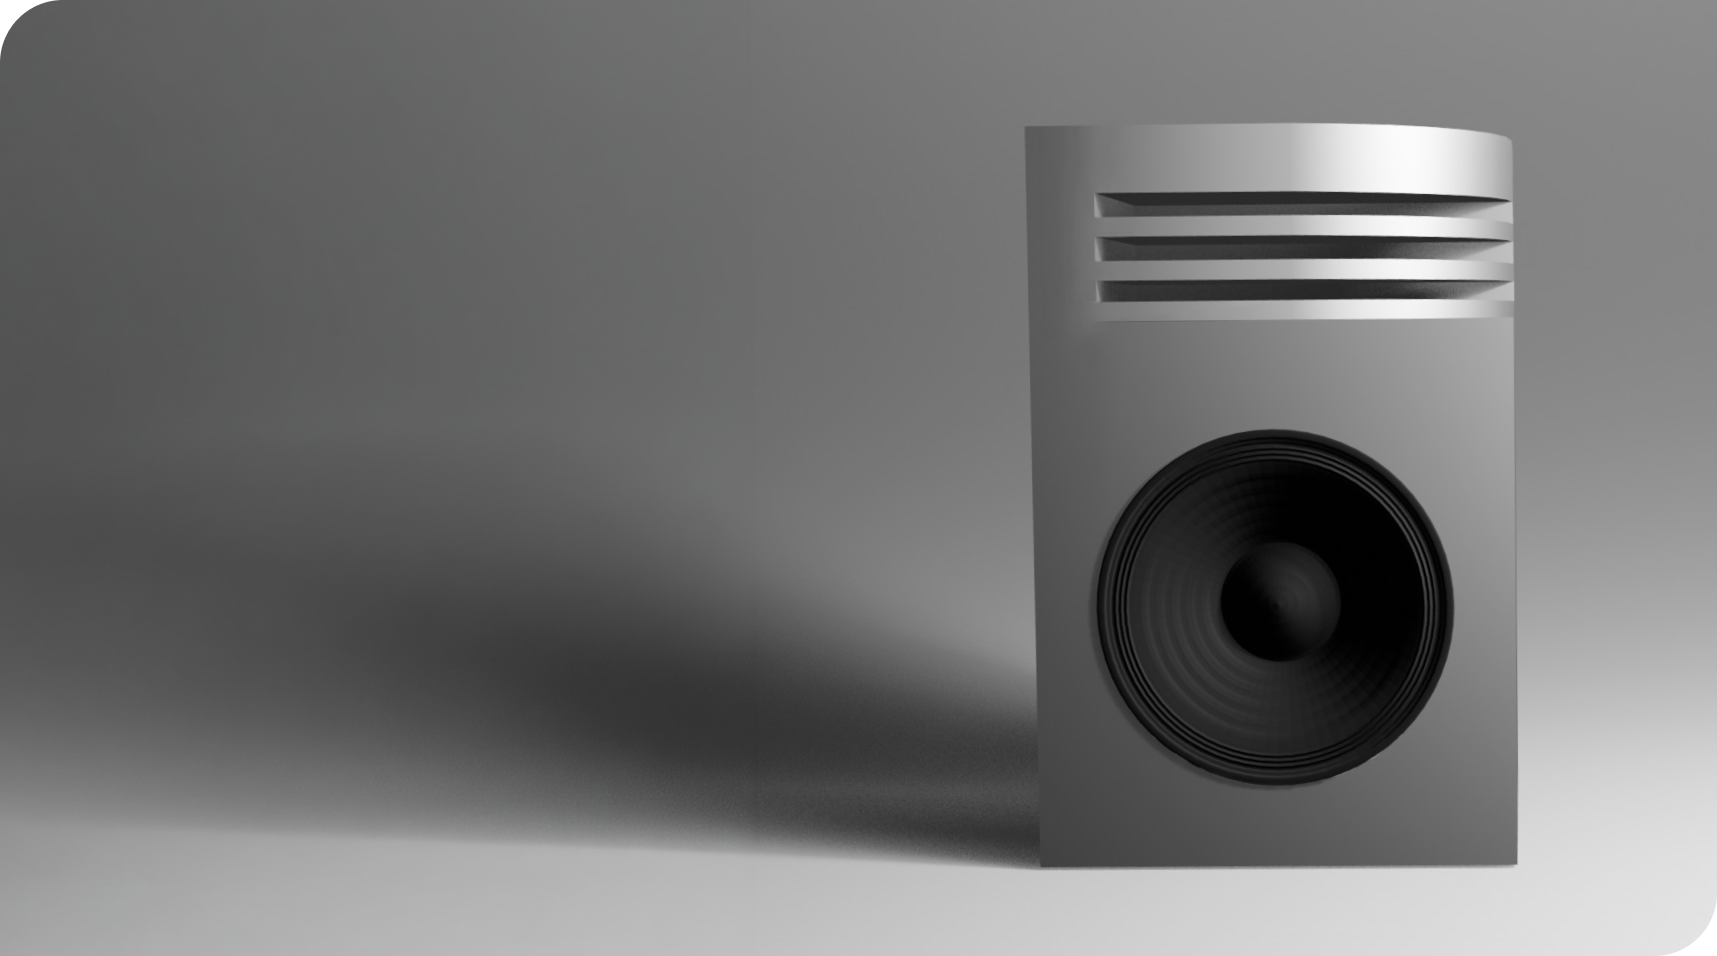
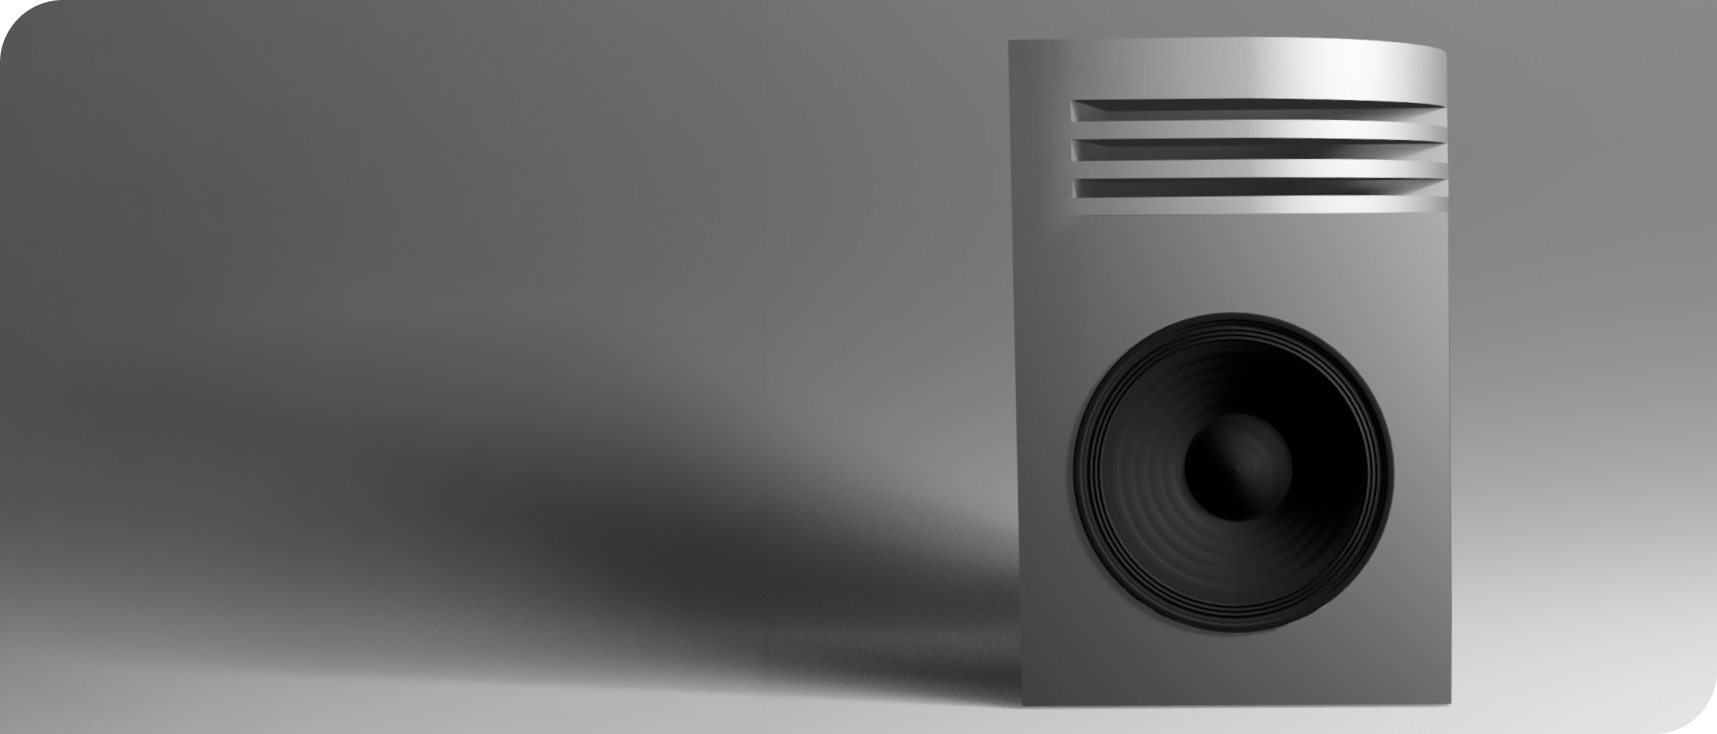
landing page edits

Changed region(s): [[0.0617, 0.03, 0.8952, 0.9891], [0.9878, 0.9292, 1.0, 0.9891], [0.0, 0.0, 0.0309, 0.03]]

diff --git a/index.html b/index.html
@@ -7,11 +7,12 @@
     <link rel="stylesheet" href="styles.css">
 </head>
 <body>
+
     <div class="nav-bar">
         <div class="left-side">
             <img 
-            class="ohbe-logo-nav"
-            src="images/OHBE-logo.png">
+                class="ohbe-logo-nav"
+                src="images/OHBE-logo.png">
         </div>
         <div class="right-side">
             <a href="about.html">About</a>
@@ -19,23 +20,58 @@
             <a href="products.html">Products</a>
         </div>
     </div>
+
     <div class="hero-section">
         <h1 class="hero-text">Sound inspired by design.</h1>
         <img src="images/OHBE-hero-image.png" alt="ohbe speaker image">
     </div>
+
+    <h1>Our Products</h1>
+
     <div class="product-section">
-        <h1>Our Products</h1>
-        <img src="images/OHBE-product-image-01.png">
-        <h3>Lamp concept 02</h3>
-        <h3>$100</h3>
-        <button type="submit">Add to cart</button>
+        <div class="product-item">
+                <img
+                class="product-image-01" 
+                src="images/OHBE-product-image-01.png">
+            <h3>Lamp concept 02</h3>
+            <h3>$100</h3>
+            <button type="submit">Add to cart</button>
+        </div>
+         <div class="product-item">
+                <img
+                class="product-image-01" 
+                src="images/OHBE-product-image-01.png">
+            <h3>Lamp concept 02</h3>
+            <h3>$100</h3>
+            <button type="submit">Add to cart</button>
+        </div>
+         <div class="product-item">
+                <img
+                class="product-image-01" 
+                src="images/OHBE-product-image-01.png">
+            <h3>Lamp concept 02</h3>
+            <h3>$100</h3>
+            <button type="submit">Add to cart</button>
+        </div>
+        <div class="product-item">
+                <img
+                class="product-image-01" 
+                src="images/OHBE-product-image-01.png">
+            <h3>Lamp concept 02</h3>
+            <h3>$100</h3>
+            <button type="submit">Add to cart</button>
+        </div>
     </div>
+
     <div class="live-ohbe-section">
-        <img src="images/OHBE-hero-image.png">
+        <img
+            class="live-ohbe-image" 
+            src="images/OHBE-hero-image.png">
         <h1>Live Ohbe</h1>
         <h2>Decorate your space with unique design. We strive to reinvent household staples with a modern twist to create a curated sound/visual experience. </h2>
-        <a href="products.html">Products</a>
+        <a href="products.html" class="product-button">Products</a>
     </div>
+
     <div class="contact-section">
         <div>
             <img src="images/OHBE-vertical-image.png">
@@ -47,8 +83,12 @@
             <h2>480 322 5134</h2>
         </div>
     </div>
+
     <div class="footer-section">
-        <img src="images/OHBE Logo-Horizontal-White.png">
+        <img
+            class="ohbe-logo-footer" 
+            src="images/OHBE Logo-Horizontal-White.png">
     </div>
+
 </body>
 </html>

diff --git a/styles.css b/styles.css
@@ -10,15 +10,19 @@
     display: block;
     width: 100%;
     height:auto;
+    margin-top: 40px;
+    margin-bottom: 40px;
 }
 
 .hero-text {
     font-family: 'Poppins', sans-serif;
-    font-size: 85px;
+    font-weight: 300;
+    font-size: 80px;
+    line-height: 1.25;
     position:absolute;
     top: 50%;
     left: 50%;
-    transform: translate(-90%, -50%);
+    transform: translate(-90%, -65%);
 }
 
 button {
@@ -33,13 +37,18 @@ body {
     background: white;
     display: flex;
     flex-direction: column;
-    margin: 3rem;
+    margin-top: 3rem;
+    margin-left: 3rem;
+    margin-right: 3rem;
 }
 
 .nav-bar {
     display: flex;
     justify-content: space-between;
-    padding: 50px;
+    padding-bottom: 5px;
+    padding-top: 1px;
+    padding-left: 50px;
+    padding-right: 50px;
     border: 2px;
 }
 
@@ -61,4 +70,107 @@ body {
 a {
     text-decoration: none;
     color: black;
+}
+
+h1 {
+    font-family: 'Poppins', sans-serif;
+    font-weight: 500;
+    font-size: 50px;
+}
+
+h2 {
+    font-family: 'Poppins', sans-serif;
+    font-weight: 300;
+    font-size: 40px;
+}
+
+h3 {
+    font-family: 'Poppins', sans-serif;
+    font-weight: 300;
+    font-size: 30px;
+}
+
+.product-section {
+    display: flex;
+    overflow-x: auto;
+    white-space: nowrap;
+    gap: 15px;
+    padding: 10px;
+    border: 1px;
+    max-width: 100%;
+}
+
+.product-item {
+    flex: 0 0 auto;
+    width: 350px;
+    height: auto;
+    background-color: white;
+    padding: 10px;
+    border-radius: 20px;
+    text-align: left;
+}
+
+.product-image-01 {
+    display: flex;
+    width: 100%;
+}
+
+.live-ohbe-image {
+    display: block;
+    width: 100%;
+    height:auto;
+    margin-top: 40px;
+    margin-bottom: 40px;
+}
+
+.product-button {
+    background-color: lightgray;
+    border: none;
+    color: black;
+    padding: 20px 100px;
+    text-align: center;
+    text-decoration: none;
+    display: inline-block;
+    font-family: 'Poppins', sans-serif;
+    font-size: 16px;
+    margin: 4px 2px;
+    cursor: pointer;
+    border-radius: 40px;
+}
+
+.ohbe-logo-footer {
+    width: 10rem;
+    display: block;
+    margin-left: auto;
+    margin-right: auto;
+}
+
+.footer-section {
+    background-color: black;
+    padding-top: 50px;
+    padding-bottom: 50px;
+    box-shadow: 0 0 0 100vmax black;
+    clip-path: inset(0 -100vmax);
+}
+
+button {
+    background-color: lightgray;
+    border: none;
+    color: black;
+    padding: 20px 100px;
+    text-align: center;
+    text-decoration: none;
+    display: inline-block;
+    font-family: 'Poppins', sans-serif;
+    font-size: 16px;
+    margin: 4px 2px;
+    cursor: pointer;
+    border-radius: 20px;
+}
+
+.contact-section {
+    display: flex;
+    justify-content: space-between;
+    padding-top: 10px;
+    padding-bottom: 10px;
 }
